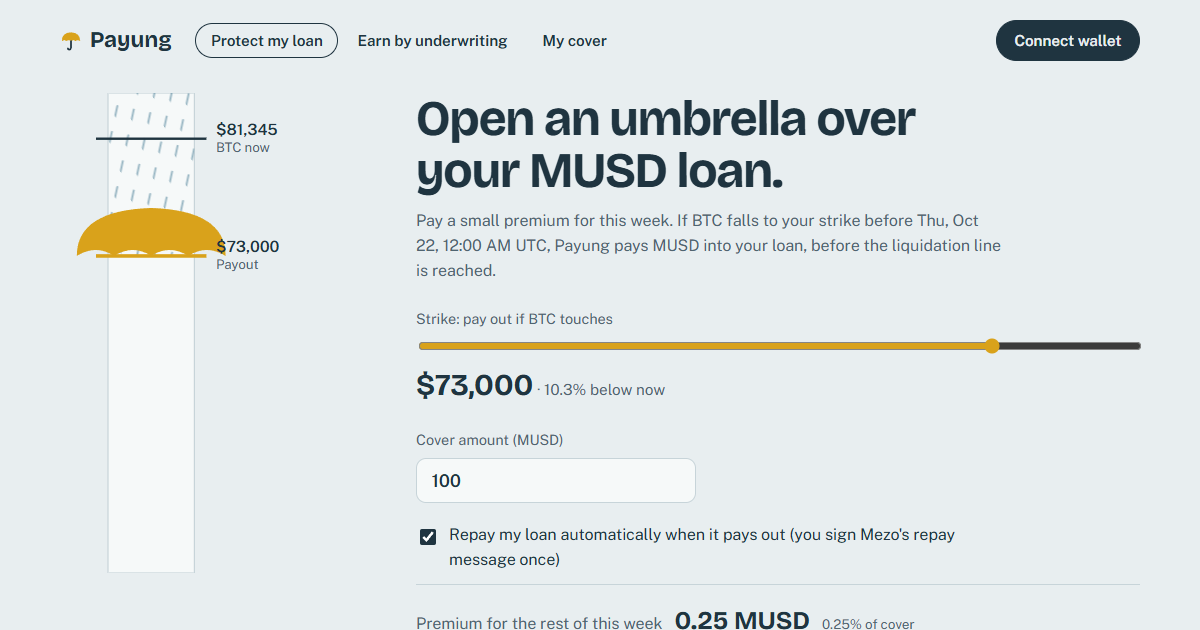
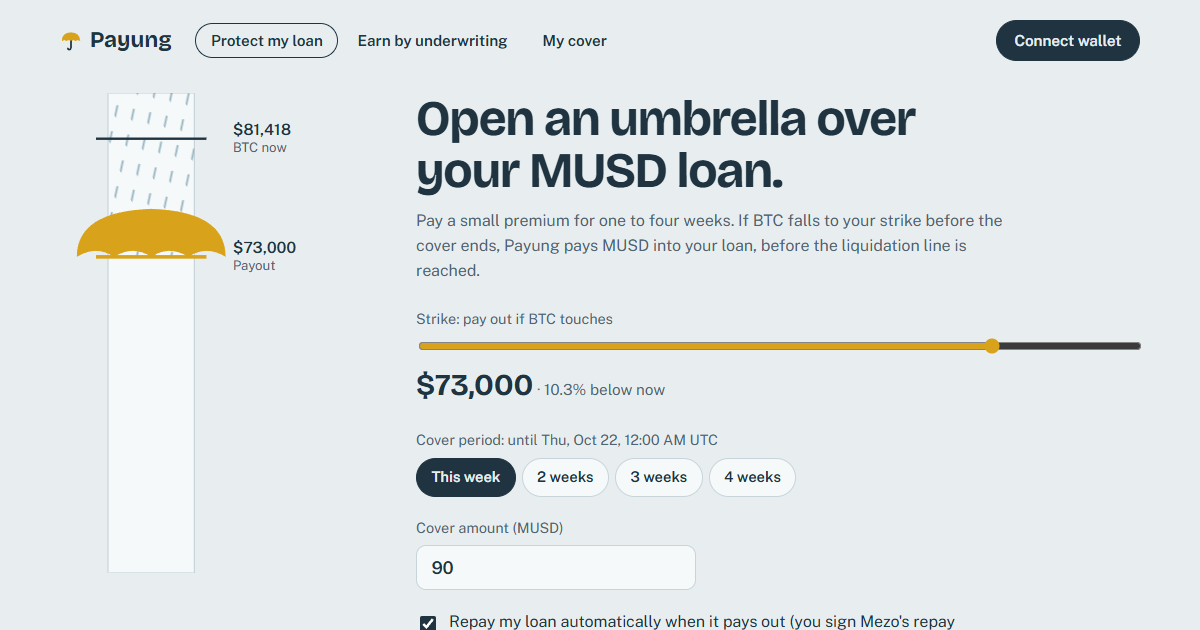
Keeper e2e on a Mezo fork, Mezo receipt fallback, share-price history
- e2e: the real keeper.mjs triggers and pays a touch on an anvil fork (snapshot/revert)
- keeper: only a real revert counts as "repay would fail" (an RPC timeout paid the wallet)
- keeper: re-read the last vol sample before poke (trigger samples too); chain time, not wall
- waitForReceipt: Mezo RPC nodes can return null receipts for mined txs; fall back to Blockscout
- app: share price since launch from archive eth_call at 25 blocks
- app: default cover fits vault capacity; capacity copy no longer says "this week"
- unit tests for the payout decision and explorer receipt (node:test, in CI)
- og.png shows the cover-period UI

diff --git a/app/src/App.jsx b/app/src/App.jsx
@@ -184,7 +184,8 @@ export default function App() {
     )
     setMe(mine)
     // The repay dry-run is the slow part; show the table first and fill it in.
-    const problems = await Promise.all(mine.policies.map((p) => (p.problem === undefined ? autoRepayProblem(pub, PAYUNG, p) : null)))
+    // An RPC failure leaves the row on "checking" (undefined) until the next refresh.
+    const problems = await Promise.all(mine.policies.map((p) => (p.problem === undefined ? autoRepayProblem(pub, PAYUNG, p).catch(() => undefined) : null)))
     setMe((m) => (m.policies !== mine.policies ? m : { ...m, policies: mine.policies.map((p, i) => ({ ...p, problem: problems[i] })) }))
   }
 
@@ -347,7 +348,7 @@ function Protect({ chain, me, account, busy, run, write, ensureAllowance, signRe
 
   // Default: umbrella opens a little above the liquidation line, cover lifts the trove to 150%.
   useEffect(() => {
-    if (strike || !price || (account && me.hasTrove === undefined)) return
+    if (strike || !price || capacity == null || (account && me.hasTrove === undefined)) return
     let s = liq ? roundUp((liq * 108n) / 100n, STEP) : ((price * 90n) / 100n / STEP) * STEP
     if (s < minStrike) s = minStrike
     if (s > maxStrike) s = maxStrike
@@ -355,8 +356,8 @@ function Protect({ chain, me, account, busy, run, write, ensureAllowance, signRe
     if (me.hasTrove) {
       const need = me.debt - (me.coll * s * 100n) / TARGET_CR / WAD
       setCover(need > MIN_COVER ? (roundUp(need, MIN_COVER) / WAD).toString() : '100')
-    } else setCover('100')
-  }, [price, liq, me, account, strike, minStrike, maxStrike])
+    } else setCover(String(capacity >= 100n * WAD || capacity < MIN_COVER ? 100n : capacity / MIN_COVER * 10n)) // no loan: a sample amount the vault can back
+  }, [price, liq, me, account, strike, minStrike, maxStrike, capacity])
 
   const autoRepay = wantRepay && !me.smartAccount // smart accounts can't sign Mezo's ECDSA repay
   const coverWei = parseAmount(cover)
@@ -448,7 +449,7 @@ function Protect({ chain, me, account, busy, run, write, ensureAllowance, signRe
           {coverError && <em className="warn">{coverError}</em>}
           {tooBig && (capacity < MIN_COVER
             ? <em className="warn">The vault's cover is fully booked. Capacity grows when underwriters deposit or when cover expires (next on {date(chain.expiry)}).</em>
-            : <em className="warn">The vault can back {musd(capacity, 0)} more this week. Lower the cover.</em>)}
+            : <em className="warn">The vault can back {musd(capacity, 0)} more right now. Lower the cover.</em>)}
         </label>
 
         {me.hasTrove && strike && coverWei > 0n && autoRepay && me.debt > coverWei && (
@@ -494,11 +495,14 @@ function Protect({ chain, me, account, busy, run, write, ensureAllowance, signRe
   )
 }
 
+const HISTORY_POINTS = 24
+const ONE_SHARE = 10n ** 24n // 1 pyMUSD: 18 decimals plus the vault's 6-decimal virtual offset
 const VAULT_EVENTS = new Set(['PolicyBought', 'StrikeTriggered', 'PolicyPaid', 'Deposit', 'Withdraw', 'VolatilityObserved', 'AutoRepayUpdated'])
 
 function Underwrite({ chain, me, account, busy, run, write, ensureAllowance, connect, canWrite }) {
   const [amount, setAmount] = useState('')
   const [activity, setActivity] = useState()
+  const [history, setHistory] = useState(PAYUNG === ADDR.payung ? undefined : null) // dev override: deployment block unknown
   const wei = parseAmount(amount)
   const sharePrice = chain.supply ? (Number(chain.nav) / Number(chain.supply)) * 1e6 : 1 // 6-decimal virtual offset
   const backing = chain.balance != null ? chain.balance - chain.owed : null
@@ -528,6 +532,22 @@ function Underwrite({ chain, me, account, busy, run, write, ensureAllowance, con
     return () => clearInterval(t)
   }, [])
 
+  useEffect(() => {
+    if (PAYUNG !== ADDR.payung) return
+    // Mezo's RPC serves archive reads: the price of 1 pyMUSD at evenly spaced blocks since deployment.
+    pub.getBlockNumber().then(async (head) => {
+      const from = ADDR.payungBlock
+      const blocks = [...new Set(Array.from({ length: HISTORY_POINTS + 1 }, (_, i) => from + ((head - from) * BigInt(i)) / BigInt(HISTORY_POINTS)))]
+      setHistory(await Promise.all(blocks.map(async (blockNumber) => {
+        const [assets, block] = await Promise.all([
+          pub.readContract({ address: PAYUNG, abi: payungAbi, functionName: 'convertToAssets', args: [ONE_SHARE], blockNumber }),
+          pub.getBlock({ blockNumber }),
+        ])
+        return { t: Number(block.timestamp), p: Number(formatUnits(assets, 18)) }
+      })))
+    }).catch(() => setHistory(null))
+  }, [])
+
   return (
     <main className="underwrite">
       <h1>Earn MUSD by backing Bitcoin borrowers.</h1>
@@ -545,6 +565,8 @@ function Underwrite({ chain, me, account, busy, run, write, ensureAllowance, con
         <div><dt>BTC volatility (on-chain)</dt><dd>{pct(chain.vol, 0)}</dd></div>
         <div><dt>Last price sample</dt><dd>{chain.observedAt == null ? '…' : chain.observedAt === 0n ? 'none yet' : ago(chain.observedAt)}</dd></div>
       </dl>
+
+      <SharePrice history={history} />
 
       {chain.touchable?.length > 0 && (
         <div className="banner ok">
@@ -635,7 +657,7 @@ function Policies({ me, account, busy, run, write, signRepay, connect, canWrite,
       const [upper, lower] = tryLoan ? await repayHints(pub, p.holder, p.cover) : [ZERO, ZERO]
       const hash = await write(PAYUNG, payungAbi, 'claim', [p.id, upper, lower])
       // Report where the MUSD actually went (the contract falls back to the wallet if Mezo refuses the repay).
-      const [paid] = parseEventLogs({ abi: payungAbi, eventName: 'PolicyPaid', logs: (await pub.getTransactionReceipt({ hash })).logs })
+      const [paid] = parseEventLogs({ abi: payungAbi, eventName: 'PolicyPaid', logs: (await waitForReceipt(pub, hash)).logs })
       return { hash, text: `Paid ${musd(p.cover, 0)} ${paid?.args.repaidTrove ? 'into your loan' : 'to your wallet (Mezo did not accept the repay signature)'}.` }
     })
 
@@ -689,6 +711,32 @@ function Policies({ me, account, busy, run, write, signRepay, connect, canWrite,
 }
 
 /** Vertical price shaft: where BTC is, where the umbrella opens, where liquidation sits. */
+function SharePrice({ history }) {
+  if (history === undefined) return <p className="lede">Reading the share price history from Mezo…</p>
+  if (!history || history.length < 2) return null
+  const first = history[0]
+  const last = history.at(-1)
+  const change = last.p / first.p - 1
+  const days = (last.t - first.t) / 86400
+  const lo = Math.min(...history.map((h) => h.p))
+  const hi = Math.max(...history.map((h) => h.p))
+  const x = (t) => ((t - first.t) / (last.t - first.t || 1)) * 300
+  const y = (p) => 56 - ((p - lo) / (hi - lo || 1)) * 52
+  const fmt = (v) => `${v >= 0 ? '+' : ''}${(v * 100).toFixed(2)}%`
+  return (
+    <figure className="history">
+      <svg viewBox="0 0 300 60" preserveAspectRatio="none" role="img" aria-label={`1 pyMUSD went from ${first.p.toFixed(4)} to ${last.p.toFixed(4)} MUSD since ${date(first.t)}`}>
+        <polyline points={history.map((h) => `${x(h.t).toFixed(1)},${y(h.p).toFixed(1)}`).join(' ')} />
+      </svg>
+      <figcaption>
+        1 pyMUSD: {first.p.toFixed(4)} → {last.p.toFixed(4)} MUSD since launch on {date(first.t)} ({fmt(change)}
+        {/* ponytail: annualising a few hours of premiums would print a silly number */}
+        {days >= 1 ? `, ${fmt((1 + change) ** (365 / days) - 1)} a year at this pace` : ''}). Read from the vault at {history.length} past blocks.
+      </figcaption>
+    </figure>
+  )
+}
+
 function Gauge({ price, strike, liq }) {
   if (!price) return <div className="gauge empty">Reading the Mezo price feed…</div>
   const top = Number(price) * 1.04
@@ -720,8 +768,8 @@ function Line({ y, label, value, cls }) {
   return (
     <g className={`mark ${cls}`}>
       <line x1="30" x2="122" y1={py} y2={py} />
-      <text x="130" y={py - 3}>{value}</text>
-      <text x="130" y={py + 11} className="sub">{label}</text>
+      <text x="144" y={py - 3}>{value}</text>
+      <text x="144" y={py + 11} className="sub">{label}</text>
     </g>
   )
 }

diff --git a/shared/mezo.js b/shared/mezo.js
@@ -1,5 +1,5 @@
 // Shared by the keeper and the app. Mezo testnet (matsnet) addresses from github.com/mezo-org/musd.
-import { defineChain, parseAbi } from 'viem'
+import { defineChain, parseAbi, ContractFunctionRevertedError } from 'viem'
 import payungAbi from '../payung.abi.json' with { type: 'json' }
 
 export const mezoTestnet = defineChain({
@@ -13,6 +13,7 @@ export const mezoTestnet = defineChain({
 
 export const ADDR = {
   payung: '0xdC66559C75c9950f8869e20A04C14494DF601d4d',
+  payungBlock: 16259876n, // deployment block: share-price history starts here
   musd: '0x118917a40FAF1CD7a13dB0Ef56C86De7973Ac503',
   priceFeed: '0x86bCF0841622a5dAC14A313a15f96A95421b9366',
   troveManager: '0xE47c80e8c23f6B4A1aE41c34837a0599D5D16bb0',
@@ -89,19 +90,43 @@ export async function autoRepayProblem(client, vault, policy) {
     })
     return null
   } catch (e) {
-    return e.walk?.((x) => x.reason)?.reason ?? e.shortMessage ?? e.message
+    // Only a revert means the repay would fail. A timeout or RPC error says nothing about it, and
+    // a claim can't be redone: rethrow so the caller retries instead of paying the wallet.
+    const revert = e.walk?.((x) => x instanceof ContractFunctionRevertedError)
+    if (!revert) throw e
+    return revert.reason ?? revert.shortMessage
   }
 }
 
-/// Polls eth_getTransactionReceipt directly. viem's waitForTransactionReceipt (block-number watch
-/// + confirmation count) intermittently never resolved against Mezo's RPC for transactions that
-/// were mined in seconds; a plain receipt poll sees them every time.
+/// Waits for a transaction's receipt. Mezo's public RPC is load-balanced and some of its nodes
+/// answer eth_getTransactionReceipt with null for minutes after the transaction is mined; a
+/// kept-alive connection can stay pinned to such a node (that is what made viem's
+/// waitForTransactionReceipt hang). So poll the RPC, and after a few seconds also ask the
+/// explorer, which indexes the same chain, for the status and logs.
 export async function waitForReceipt(client, hash, { timeout = 180_000, interval = 1_500 } = {}) {
-  for (const end = Date.now() + timeout; Date.now() < end; await new Promise((r) => setTimeout(r, interval))) {
+  const start = Date.now()
+  for (; Date.now() < start + timeout; await new Promise((r) => setTimeout(r, interval))) {
     const receipt = await client.getTransactionReceipt({ hash }).catch(() => null)
     if (receipt) return receipt
+    if (Date.now() - start > 6_000) {
+      const fromExplorer = await explorerReceipt(hash).catch(() => null)
+      if (fromExplorer) return fromExplorer
+    }
   }
   throw new Error(`Mezo has not confirmed ${hash} after ${timeout / 1000} s`)
+}
+
+/// The receipt fields Payung reads (status, block, logs), from the Blockscout API. Null while pending.
+export async function explorerReceipt(hash) {
+  const tx = await fetch(`${EXPLORER_API}/transactions/${hash}`).then((r) => (r.ok ? r.json() : null))
+  if (!tx?.block_number || !tx.status) return null
+  const { items } = await fetch(`${EXPLORER_API}/transactions/${hash}/logs`).then((r) => r.json())
+  return {
+    transactionHash: hash,
+    blockNumber: BigInt(tx.block_number),
+    status: tx.status === 'ok' ? 'success' : 'reverted',
+    logs: items.map((l) => ({ address: l.address.hash, topics: l.topics.filter(Boolean), data: l.data, logIndex: l.index, transactionHash: hash })),
+  }
 }
 
 /// Mezo testnet's eth_estimateGas undershoots calls that read the BTC oracle precompile

diff --git a/app/src/App.css b/app/src/App.css
@@ -168,3 +168,9 @@ fieldset.field legend { font-size: 0.9rem; color: var(--mist); padding: 0; margi
 .seg label.on { border-color: var(--ink); background: var(--ink); color: var(--sky); }
 .seg input { position: absolute; opacity: 0; width: 1px; height: 1px; }
 .seg label:has(input:focus-visible) { outline: 3px solid var(--turmeric); outline-offset: 2px; }
+
+/* Share price since launch: one quiet line, the caption carries the numbers */
+.history { margin: 0 0 1.75rem; max-width: 760px; }
+.history svg { width: 100%; height: 60px; display: block; }
+.history polyline { fill: none; stroke: var(--ink); stroke-width: 1.5; vector-effect: non-scaling-stroke; }
+.history figcaption { font-size: 0.9rem; color: var(--mist); margin-top: 6px; }

diff --git a/README.md b/README.md
@@ -97,6 +97,8 @@ cd contracts && slither src/Payung.sol --config-file slither.config.json   # sta
   - **Re-arm on a real nonce.** It then sends a real signed 1 MUSD repay to Mezo, which uses up the nonce. The test checks that the app flags the policy and re-signs it.
   - **Underwriting and account switch.** It deposits and withdraws, and handles a wallet account switch.
   - **A real touch, through the UI** (`e2e/touch.spec.mjs`). It runs an anvil fork of Mezo testnet holding the deployed vault and the real MUSD system, and swaps only `PriceFeed`'s code for one that returns a set price, because anvil can't run Mezo's oracle precompile. The test sets BTC $500 under the policy's strike. It re-signs auto-repay if a past Mezo action used up the nonce. Then it clicks **Trigger it and earn** and checks the caller received exactly the reward. Finally it clicks **Pay out now** and checks the trove's debt fell by the cover.
+  - **The keeper on its own** (same file). It runs the real `keeper/keeper.mjs --once` against the fork as an outside account, after the price dips under the highest live strike. Then it checks that every expiry selling that strike was triggered, that the keeper got exactly the trigger rewards, and that every policy on it was paid: into the loan when its signature still holds, otherwise into the wallet. The fork is reverted afterwards, so the UI test starts clean.
+- **Unit tests for the payout decision** (`shared/mezo.test.mjs`, `npm run test:unit`, in CI). A claim can't be redone, so only a real revert may send a payout to the wallet. An RPC timeout must throw so the keeper retries.
   - **Read-only checks** (run in CI): no-wallet state, phone width without sideways scroll, keyboard focus, an axe-core WCAG 2.1 AA audit of every tab (0 violations), and no page errors.
 
 CI ([`.github/workflows/test.yml`](.github/workflows/test.yml)) runs unit, fuzz, invariant and fork tests, Slither, lint and the read-only e2e suite on every push.
@@ -106,7 +108,9 @@ The tests found and fixed real bugs:
 - A payout that fell back to the wallet was reported as "into your loan". The message now comes from the `PolicyPaid` event.
 - The raw viem error showed for a wallet out of gas money.
 - Secondary text failed the WCAG contrast minimum.
-- viem's `waitForTransactionReceipt` sometimes never resolved on Mezo's RPC, even for transactions mined in seconds. The shared `waitForReceipt` polls `eth_getTransactionReceipt` instead, and the app shows "Sent, waiting for Mezo to confirm" with the explorer link as soon as a hash exists.
+- Transactions sometimes "never confirmed" even though they were mined in seconds. The cause: Mezo's public RPC is load-balanced, and some of its nodes answer `eth_getTransactionReceipt` with `null` for a mined transaction (we caught one doing it for minutes while the explorer and `eth_getTransactionByHash` showed it mined). A kept-alive connection can stay pinned to such a node. The shared `waitForReceipt` polls the RPC and, after a few seconds, also reads status and logs from the explorer's API. The app shows "Sent, waiting for Mezo to confirm" with the explorer link as soon as a hash exists, and reads the payout's destination from that receipt.
+- The keeper decided whether a volatility sample was due from values read at the start of its pass, but `trigger()` takes a sample too, so a pass that triggered a strike then sent a `poke()` that reverted "too soon" and marked the run failed. It now reads the last sample time and the chain's clock right before deciding.
+- The keeper treated any failed repay dry-run as "the repay would fail", including an RPC timeout, and then paid the wallet instead of the loan. A claim is final, so a slow RPC could cost a borrower their auto-repay. Now only a real revert counts, and a timeout makes the keeper retry on the next tick. The fork test caught this: a repay dry-run on a fork takes more than viem's 10 s default.
 - A strike under the loan's liquidation line was accepted silently, though Mezo would refuse the repay there. The app now warns, and the e2e test checks the warning.
 
 ## Run it
@@ -129,7 +133,7 @@ The app reads the vault address from `shared/mezo.js` (`?vault=0x…` overrides 
 - **Cover period.** One to four weeks, each with its own live quote.
 - **Live pricing.** A premium quote that falls as the expiry nears. It shows the on-chain volatility and the 1% slippage bound.
 - **Payout check.** A warning when the strike sits so low that, even after the payout, the loan would be under 110%. Mezo would refuse that repay.
-- **Underwriter view.** Vault value, utilization, premiums this week and free liquidity. Vault activity is decoded from the Mezo explorer's (Blockscout) log API.
+- **Underwriter view.** Vault value, utilization, premiums this week and free liquidity. A share-price line since launch is read from the vault at 25 past blocks (Mezo's RPC serves archive `eth_call`), with the change since launch and, once a day has passed, the annualised pace. Vault activity is decoded from the Mezo explorer's (Blockscout) log API.
 - **My cover.** Per-policy auto-repay health from a dry-run of Mezo's repay, with a one-click re-sign and **Pay out now** for touched cover.
 - **Anyone can keep.** Touched strikes show a **Trigger it and earn** button with the reward. The underwriter view shows when the price was last sampled, so a stalled keeper is visible.
 - **Payout preview.** The Protect tab shows your collateral ratio at the strike, before and after the payout.

diff --git a/SUBMISSION.md b/SUBMISSION.md
@@ -11,7 +11,7 @@ Mezo's promise is "live off your Bitcoin without selling it", and liquidation is
 
 **Target group:** Mezo MUSD borrowers who keep BTC long-term and fear a sharp drop (desktop and mobile web, intermediate DeFi users), and MUSD holders who want yield that isn't tied to LP or Stability Pool risk. Track 1: makes MUSD productive capital, and makes Mezo Borrow safer to use at higher LTV.
 
-**Tech stack:** Solidity 0.8.24, Foundry (30 unit/fuzz tests, 5 invariants over 128k random calls, 2 fork tests against the live MUSD contracts), Slither (0 findings), axe-core, OpenZeppelin ERC-4626, viem, React + Vite, EIP-6963 wallets, Playwright e2e with a real wallet bridge on testnet and a BTC-touch test on an anvil fork of Mezo, Node keeper on a GitHub Actions cron, Blockscout API.
+**Tech stack:** Solidity 0.8.24, Foundry (30 unit/fuzz tests, 5 invariants over 128k random calls, 2 fork tests against the live MUSD contracts), Slither (0 findings), node:test unit tests for the payout decision, axe-core, OpenZeppelin ERC-4626, viem, React + Vite, EIP-6963 wallets, Playwright e2e with a real wallet bridge on testnet and BTC-touch tests on an anvil fork of Mezo (through the app, and the keeper alone), archive reads for share-price history, Node keeper on a GitHub Actions cron, Blockscout API.
 
 **Track:** Track 1 (DeFi)
 
